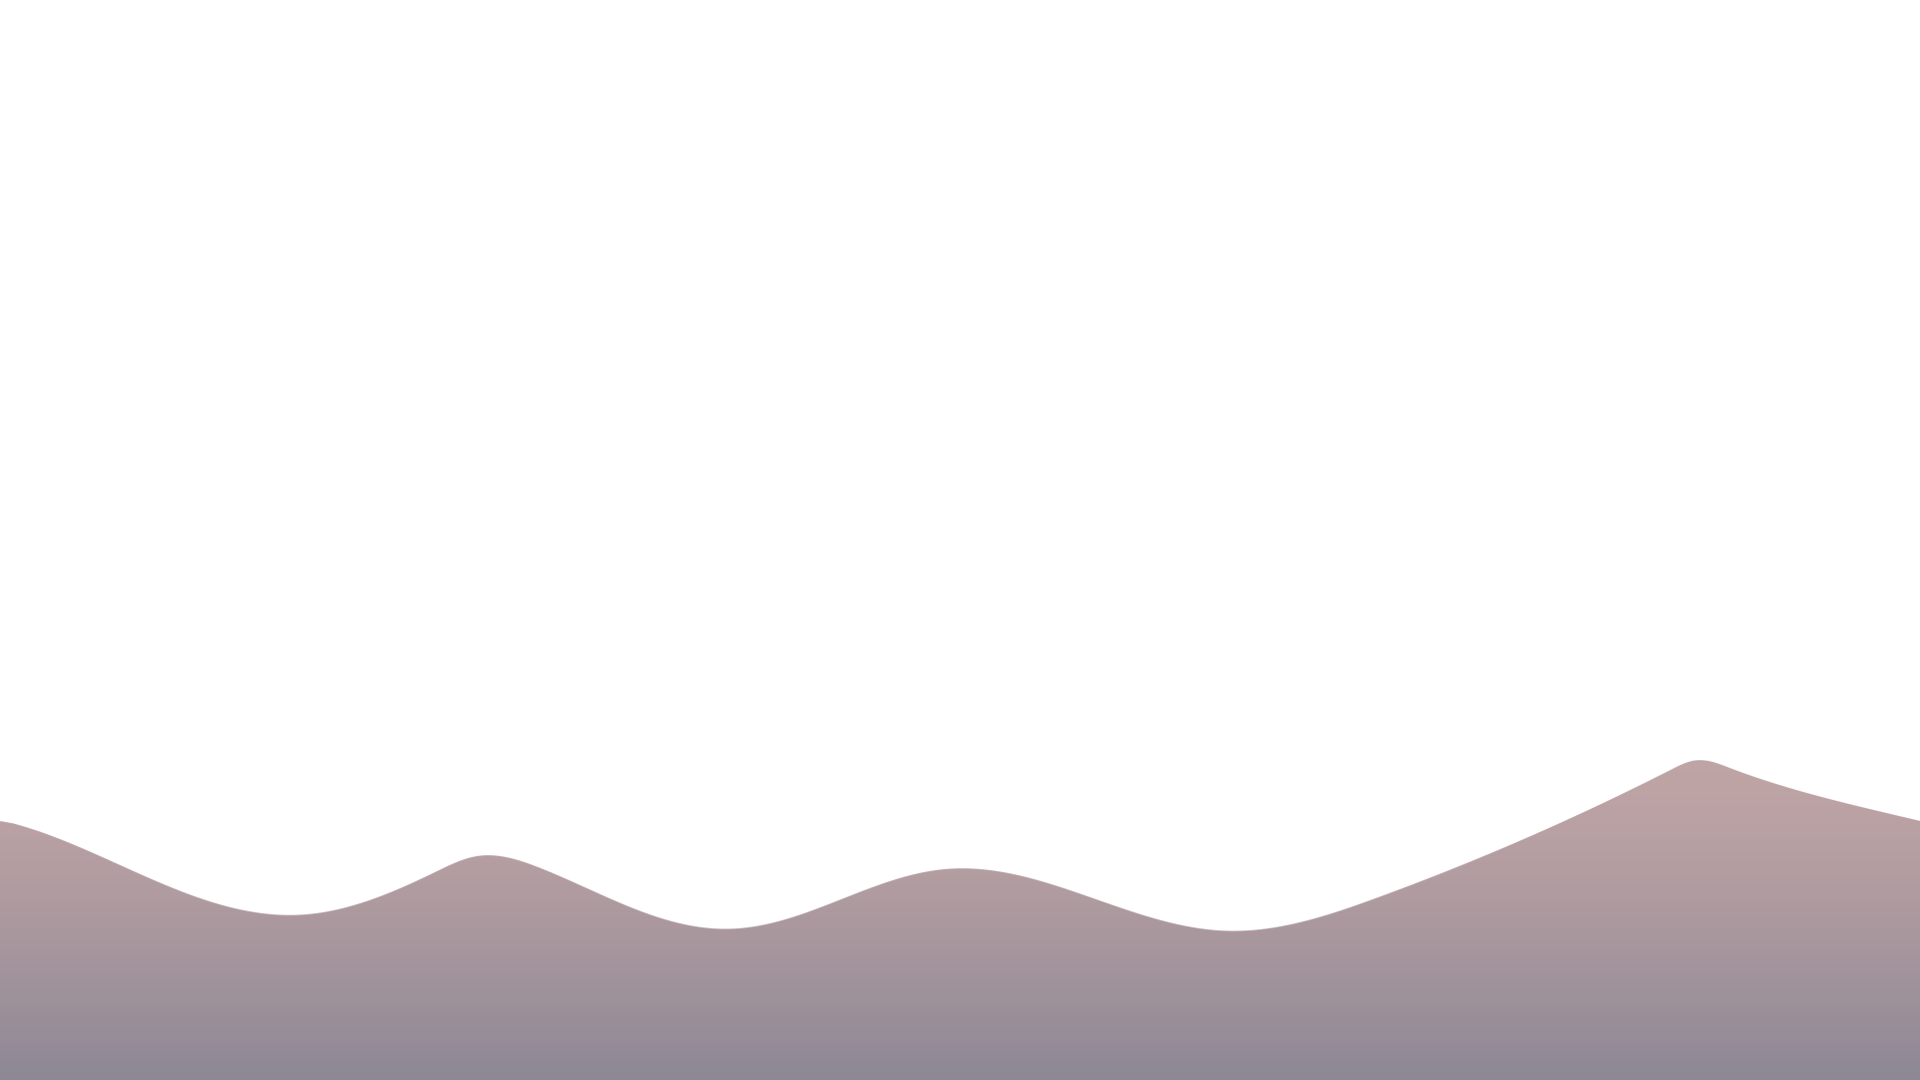
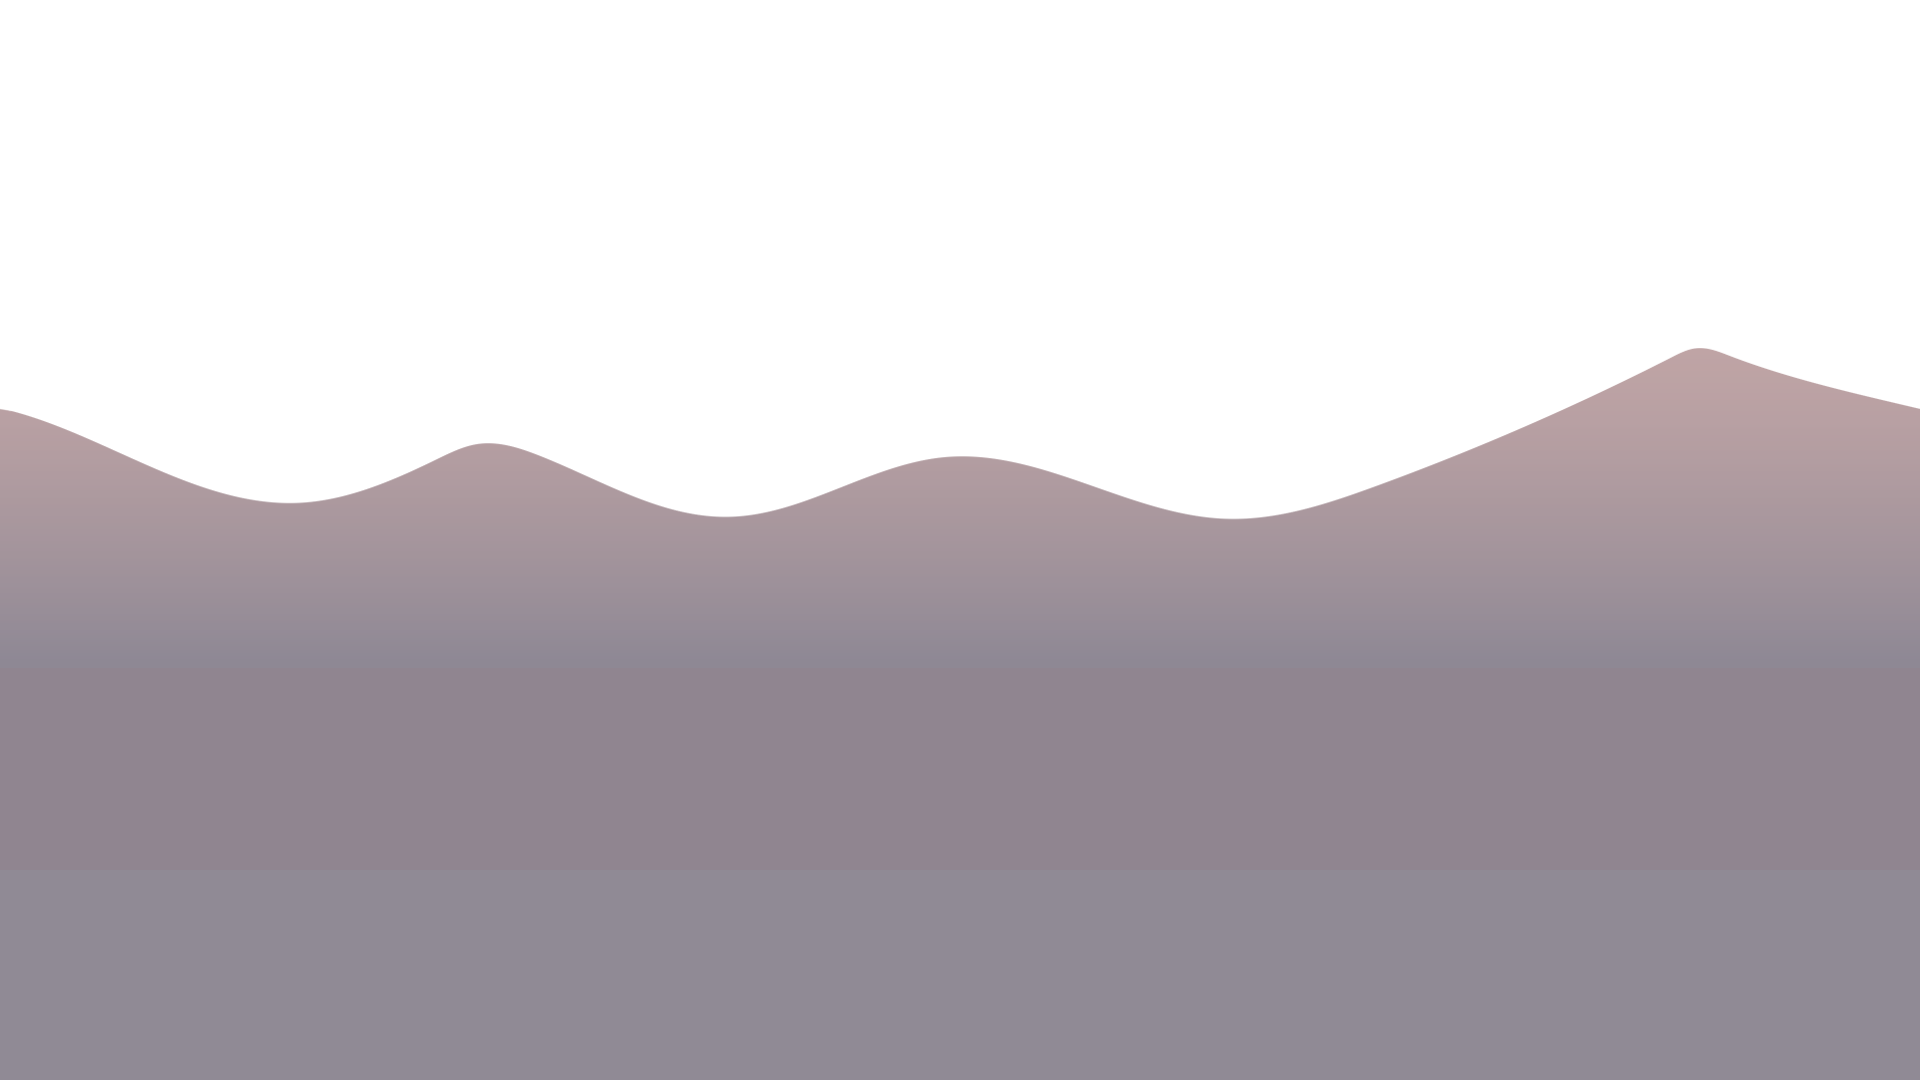
Improve responsive
Responsiveness is triggered on resize for the background. Still som
e bugs for extremely large screens.

diff --git a/js/game.js b/js/game.js
@@ -5,6 +5,7 @@ let birds = [];
 let bgBack;
 let bgMiddle;
 let bgFront;
+let bgGround;
 let bgX = 0;
 let bgSpeed = -1;
 let basicText;
@@ -21,6 +22,7 @@ window.onload = function () {
         {
             width: window.innerWidth,
             height: window.innerHeight,
+            resizeTo : window,
             backgroundColor: 0xAAAAA
         }
     );
@@ -39,6 +41,7 @@ window.onload = function () {
     app.loader.add("bgBack", "sky.png");
     app.loader.add("bgMiddle", "clouds.png");
     app.loader.add("bgFront", "rocks.png");
+    app.loader.add("bgGround", "ground.png");
 
 
     // Loading of the app
@@ -61,7 +64,11 @@ function clickHandler() {
 function doneLoading() {
     bgBack = createBg(app.loader.resources["bgBack"].texture);
     bgMiddle = createBg(app.loader.resources["bgMiddle"].texture);
-    bgFront = createBg(app.loader.resources["bgFront"].texture);
+
+    bgFront = new PIXI.TilingSprite(app.loader.resources["bgFront"].texture, window.innerWidth, window.innerHeight);
+    bgFront.position.set(0, window.innerHeight*0.003);
+    app.stage.addChild(bgFront);
+
 
     // Create the Lama Object 
     lama = new Lama({ app });
@@ -93,6 +100,12 @@ function resizeScreen(){
        appWidth = window.innerWidth;
        appHeight = window.innerHeight;
        app.renderer.resize(window.innerWidth, window.innerHeight);
+       bgBack.width = window.innerWidth;
+       bgBack.height = window.innerHeight;
+       bgMiddle.width = window.innerWidth;
+       bgMiddle.height = window.innerHeight;
+       bgFront.width = window.innerWidth;
+       bgFront.height = window.innerHeight;
     }
 }
 
@@ -130,7 +143,7 @@ function gameLoop() {
 }
 
 function createBg(texture) {
-    let tilling = new PIXI.TilingSprite(texture, window.innerWidth, window.innerHeight);
+    let tilling = new PIXI.TilingSprite(texture, app.view.width,app.view.height);
     
     tilling.position.set(0, 0);
     app.stage.addChild(tilling);
